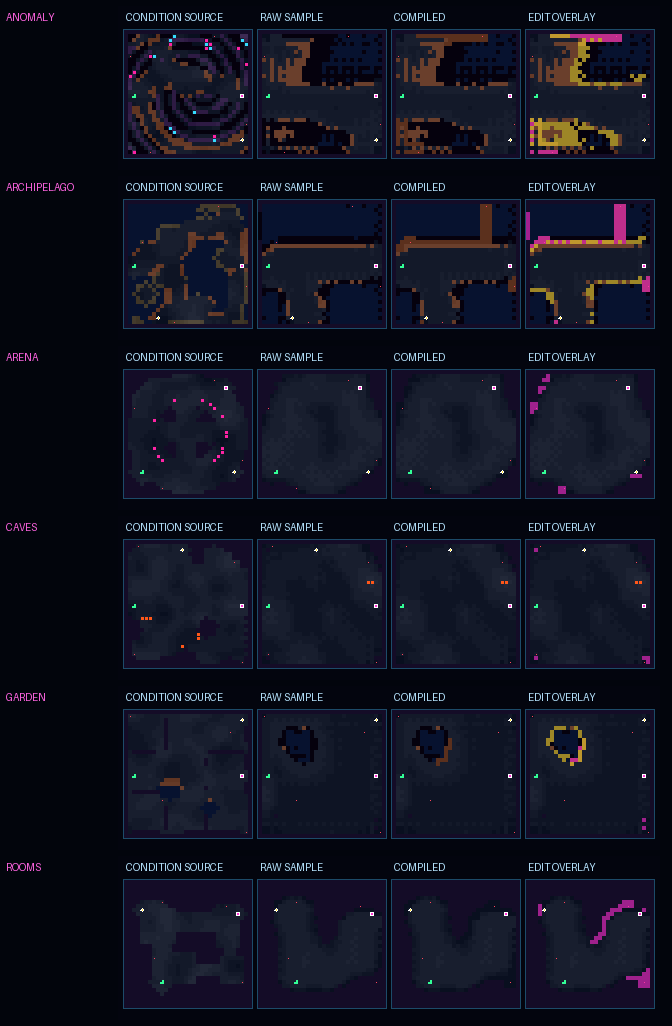
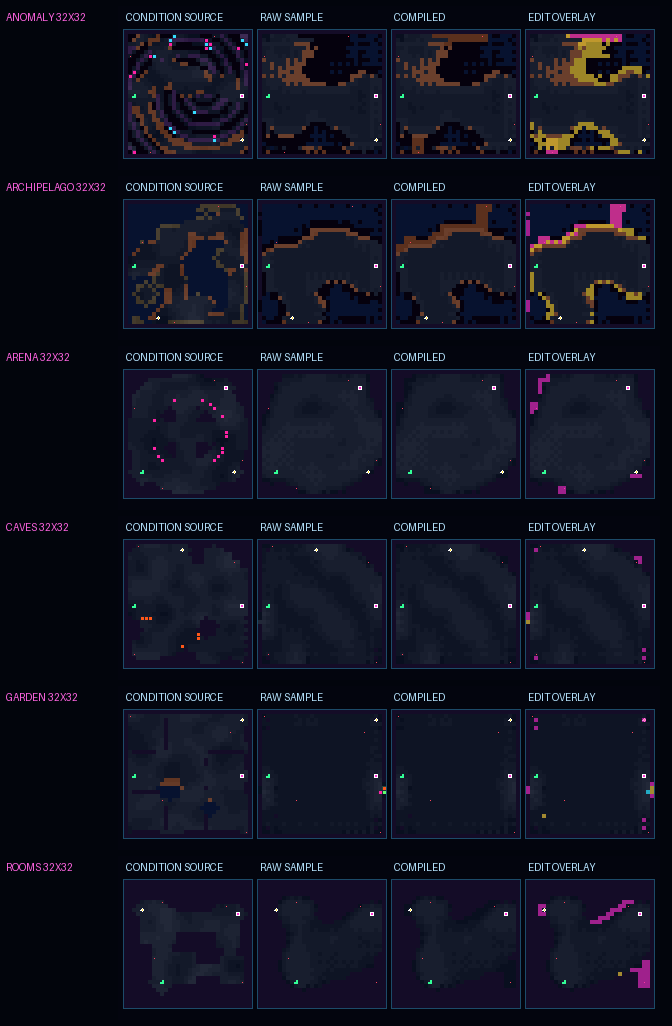
Train scale-aware neural world topology

diff --git a/forge/map_topology_neural_prior_v3/semantic.py b/forge/map_topology_neural_prior_v3/semantic.py
@@ -33,12 +33,13 @@ def frequency_weights(counts: Tensor, *, maximum: float=5.0) -> Tensor:
 def semantic_topology_loss(
     logits: Tensor,targets: Tensor,mask: Tensor,valid_mask: Tensor,point_conditions: Tensor,
     global_conditions: Tensor,token_weights: Tensor,walkable_table: Tensor,hazard_table: Tensor,
-    *,propagation_steps: int=16,codec: torch.nn.Module|None=None,
+    *,propagation_steps: int|None=None,codec: torch.nn.Module|None=None,
 ) -> dict[str,Tensor]:
     batch,vocabulary,height,width=logits.shape
     if targets.shape!=(batch,height,width) or mask.shape!=targets.shape or valid_mask.shape!=(batch,1,height,width):raise ValueError("Semantic topology tensor shapes disagree.")
     if point_conditions.shape!=(batch,4,height,width) or global_conditions.shape!=(batch,14):raise ValueError("Semantic topology conditions disagree.")
     if token_weights.shape!=(vocabulary,) or walkable_table.shape!=(vocabulary,) or hazard_table.shape!=(vocabulary,):raise ValueError("Semantic topology token tables disagree.")
+    propagation_steps=height+width if propagation_steps is None else propagation_steps
     if propagation_steps<1:raise ValueError("Propagation steps must be positive.")
     per_cell=F.cross_entropy(logits.float(),targets.long(),weight=token_weights.float(),reduction="none")
     token_loss=per_cell[mask].mean()

diff --git a/README.md b/README.md
@@ -118,10 +118,10 @@ rerasterizing an entire body per pose. Peak reserved VRAM is about 770 MiB.
 The width-96 neural topology prior now trains through the frozen VQ decoder, not
 only against token IDs. A 200-step semantic fine-tune adds rare-token balancing,
 required-point walkability, decoded condition matching, categorical sharpness,
-and differentiable agent-width reachability. Its decoded six-biome sentinel audit
-reaches 100% raw required-route connectivity and 50% agent-radius connectivity.
-Across all 24 held-out size/theme maps, those rates are 58.3% and 29.2%; mean
-repair is 5.1% on the 18 maps that completed isolated compiler verification.
+and scale-aware differentiable agent-width reachability. The selected 500-step
+semantic checkpoint reaches 70.8% raw required-route connectivity and 41.7%
+agent-radius connectivity across all 24 held-out size/theme maps. Its six-biome
+32px sentinel slice reaches 83.3% and 50%, with 5.5% mean deterministic repair.
 Hazard placement remains a separate neural-decorator responsibility. This is a
 measurable improvement and a useful failure boundary—not a promoted world generator.
 
